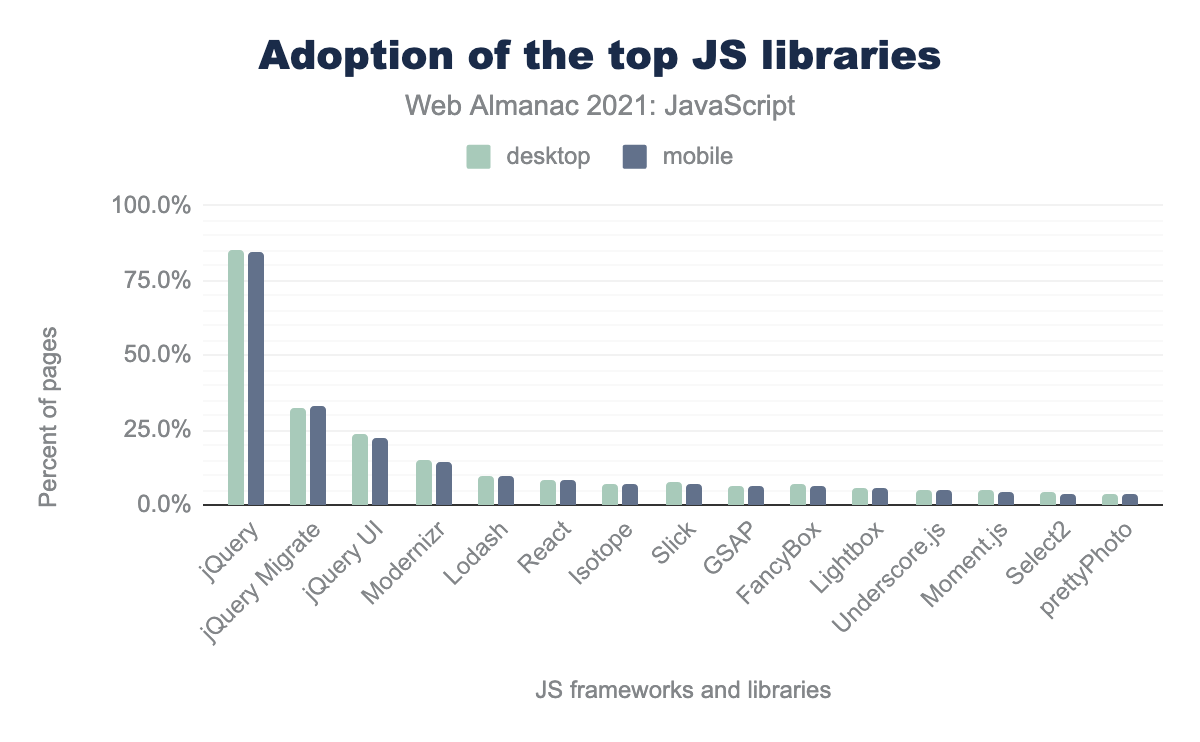
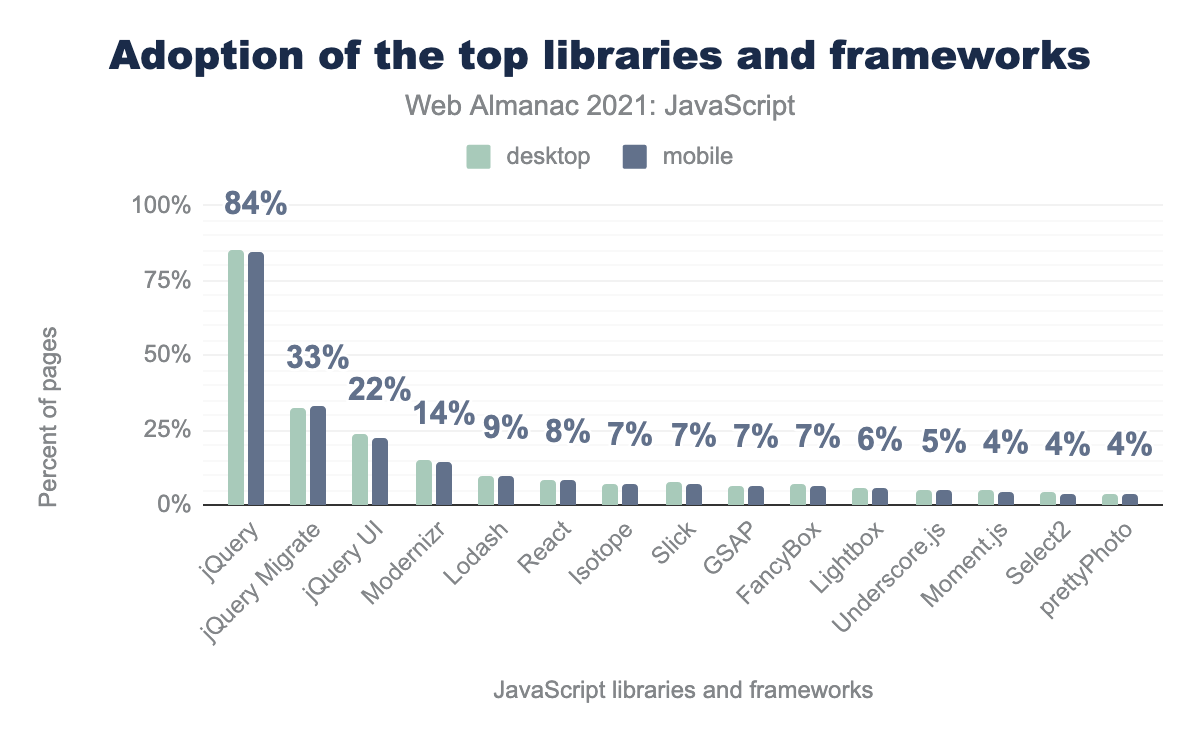
libraries and frameworks

diff --git a/src/content/en/2021/javascript.md b/src/content/en/2021/javascript.md
@@ -128,8 +128,8 @@ Let's look at the data to understand the adoption of these attributes.
     <thead>
       <tr>
         <th>Attribute</th>
-        <th>desktop</th>
-        <th>mobile</th>
+        <th>Desktop</th>
+        <th>Mobile</th>
       </tr>
     </thead>
     <tbody>
@@ -167,8 +167,8 @@ However, loading the JavaScript asynchronously or deferred helps in some ways to
     <thead>
       <tr>
         <th>Attribute</th>
-        <th>desktop</th>
-        <th>mobile</th>
+        <th>Desktop</th>
+        <th>Mobile</th>
       </tr>
     </thead>
     <tbody>
@@ -348,7 +348,7 @@ JavaScript resources can be loaded more efficiently over the network with compre
 
 ### Compression
 
-Compression is the process of reducing the file size of a resource as it gets transferred over the network. This can be an effective way to improve the download times of JavaScript resources, which are highly compressible. For example, the `almanac.js` script loaded on this page is 28 KB, but only 9 KB over the wire thanks to compression.
+Compression is the process of reducing the file size of a resource as it gets transferred over the network. This can be an effective way to improve the download times of JavaScript resources, which are highly compressible. For example, the `almanac.js` script loaded on this page is 28 KB, but only 9 KB over the wire thanks to compression. You can learn more about the ways resources are compressed across the web in the [Compression](./compression) chapter.
 
 {{ figure_markup(
   image="compression-requests.png",
@@ -460,19 +460,19 @@ Only 0.1% of mobile pages use the [`SourceMap`](https://developer.mozilla.org/en
   )
 }}
 
-Interestingly, at 98.0%, nearly all of the `SourceMap` usage on mobile JavaScript resources can be attributed to first-parties. Only 2.0% of scripts with the header on mobile pages are third-party resources.
+98.0% of the `SourceMap` usage on JavaScript resources can be attributed to first-parties. Only 2.0% of scripts with the header on mobile pages are third-party resources.
 
 ## Libraries and frameworks
 
-Over the past years, the usage of JavaScript has increased tremendously with the adoption of many libraries and frameworks. In an effort to fasten and ease building the web, many frameworks have been introduced with each bringing features that make the app more performant. This was so prevalent that the term _framework fatigue_ came into existence.
+The usage of JavaScript seems to have increased tremendously over the years, with the adoption of many new libraries and frameworks all promising their own unique improvements to the developer and user experiences. They have become so prevalent that the term <a hreflang="en" href="https://allenpike.com/2015/javascript-framework-fatigue"><em>framework fatigue</em></a> was coined to describe developers' struggle just to keep up. In this section, we'll look at the popularity of the JavaScript libraries and frameworks in use on the web today.
 
 ### Libraries usage
 
-To understand the usage of libraries and frameworks, HTTP Archive uses [Wappalyzer](./methodology#wappalyzer), which detects many technologies used by the web pages.
+To understand the usage of libraries and frameworks, HTTP Archive uses [Wappalyzer](./methodology#wappalyzer) to detect the technologies used on a page.
 
 {{ figure_markup(
   image="js-libs-frameworks.png",
-  caption="Usage of Javascript libraries and frameworks.",
+  caption="Usage of JavaScript libraries and frameworks.",
   description="Bar chart showing the usage of Javascript libraries and frameworks. jQuery remains on top with 84% of mobile pages using it.",
   chart_url="https://docs.google.com/spreadsheets/d/e/2PACX-1vTpHzC_cMZYj2VLzQ4ODK3uvZkNBXtwdAZriZaBwjLjUM1SGwwmJs9rv8T6OtNdXox29PQ34CasUUwc/pubchart?oid=584103777&format=interactive",
   sheets_gid="1851485826",
@@ -480,21 +480,31 @@ To understand the usage of libraries and frameworks, HTTP Archive uses [Wappalyz
   )
 }}
 
-jQuery remains on top with 84% of mobile pages containing jQuery, however React usage has jumped from 4% to 8% since last year, which is a significant increase. Also worth noticing is the usage of Isotope (uses jQuery) to 7% leading to RequireJS falling out of the picture with 2% usage.
+jQuery remains the most popular library, used by a staggering 84% of mobile pages. React usage has jumped from 4% to 8% since last year, which is a significant increase. React's increase may be partially due to recent <a hreflang="en" href="https://github.com/AliasIO/wappalyzer/issues/2450">detection improvements</a> to Wappalyzer, and may not necessarily reflect the actual change in adoption. It's also worth noting that Isotope, which uses jQuery, is found on 7% of pages, leading to RequireJS falling out of the top spots on just 2% of pages.
 
-One might wonder why jQuery is so dominant and hasn't disappeared over time. There are two main reasons for this. First, as [highlighted over the previous years](../2019/javascript#open-source-libraries-and-frameworks), is that most of the <a hreflang="en" href="https://wordpress.org/">WordPress</a> sites use jQuery, which contributes to a major participation of jQuery. Second, even if the wide usage of jQuery is ignored for a moment, several of the other top-used JavaScript libraries still rely on jQuery in some way under the hood.
+You might wonder why jQuery is still so dominant in 2021. There are two main reasons for this. First, as [highlighted over the previous years](../2019/javascript#open-source-libraries-and-frameworks), most <a hreflang="en" href="https://wordpress.org/">WordPress</a> sites use jQuery. Given that WordPress is used on nearly a third of all websites, according to the [CMS](./cms) chapter, this accounts for a huge proportion of jQuery adoption. Second, several of the other top-used JavaScript libraries still rely on jQuery in some way under the hood, contributing to indirect adoption of the library.
+
+
+{{ figure_markup(
+  content="3.5.1",
+  caption="The most popular version of jQuery.",
+  classes="big-number",
+  sheets_gid="1097559251",
+  sql_file="frameworks_libraries_by_version.sql"
+  )
+}}
+
+The most popular version of jQuery is 3.5.1, which is used by 21.3% of mobile pages. The next most popular version of jQuery is 1.12.4, at 14.4% of mobile pages. The leap to version 3.0 can be explained by a <a hreflang="en" href="https://wptavern.com/major-jquery-changes-on-the-way-for-wordpress-5-5-and-beyond">change to WordPress core</a> in 2020, which upgraded the default version of jQuery from 1.12.4 to 3.5.1.
 
 ### Libraries used together
 
-The adoption of JavaScript frameworks doesn't see a substantial change compared to the previous years. With the way the adoption is measured, there is a <a hreflang="en" href="https://github.com/AliasIO/wappalyzer/issues/2450">detection limitation</a> which doesn't let Wappalyzer capture the percentage precisely. Additionally, the detection is only run on home pages which doesn't capture accurately the overall framework adoption.
-
-It would instead be interesting to look at how the popular frameworks and libraries approach the usage of other libraries. This means how many frameworks or libraries actually rely on other libraries in production.
+Now let's look at how the popular frameworks and libraries are used together on the same page.
 
 <figure>
   <table>
     <thead>
       <tr>
-        <th>Frameworks/Libraries</th>
+        <th>Frameworks and libraries</th>
         <th>Desktop</th>
         <th>Mobile</th>
       </tr>
@@ -552,16 +562,18 @@ It would instead be interesting to look at how the popular frameworks and librar
       </tr>
     </tbody>
   </table>
-  <figcaption>{{ figure_link(caption="Javascript frameworks usage with JavaScript libraries.", sheets_gid="1934429143", sql_file="frameworks_libraries_combos.sql") }}</figcaption>
+  <figcaption>{{ figure_link(
+    caption="Top combinations of JavaScript frameworks and libraries used together.",
+    sheets_gid="1934429143",
+    sql_file="frameworks_libraries_combos.sql"
+  ) }}</figcaption>
 </figure>
 
-jQuery tops in usage with libraries and frameworks, which could also be a result of using a third-party library that includes it. This, as a result, leads to more processing time for the code that the framework or library uses with the other included libraries.
-
-22% of known versions of jQuery are found to be version 3.5.1. This is a big jump compared to last year's (1.12.4), which could be attributed to Wordpress which constitutes most of the participation of jQuery.
+The most widely-used combination of JavaScript libraries and frameworks doesn't actually consist of multiple libraries at all! When used by itself, jQuery is found on 17.4% of mobile pages. The next most popular combination is jQuery and jQuery Migrate, which is used on 8.7% of mobile pages. In fact, all of the top 10 library and framework combinations include jQuery.
 
 ### Security vulnerabilities
 
-Using third-party libraries comes with its own benefits and drawbacks. When using third-party libraries, one extra step for developers is to ensure the security that the library brings. Lighthouse runs this security audit for the third-party libraries used using the package name and its version. These packages can then be checked if there is any vulnerability that has been identified related to those. This is done using the <a hreflang="en" href="https://snyk.io/vuln?type=npm">Snyk's open source vulnerability database</a>.
+Using JavaScript libraries can come with its own benefits and drawbacks. When using these libraries, one drawback is that older versions may include security risks like <a hreflang="en" href="https://owasp.org/www-community/attacks/xss/">Cross Site Scripting</a> (XSS). [Lighthouse](./methodology#lighthouse) detects the JavaScript libraries used on a page and fails the audit if their version has any known vulnerabilities in the open-source <a hreflang="en" href="https://snyk.io/vuln?type=npm">Snyk vulnerability database</a>.
 
 {{ figure_markup(
   content="63.9%",
@@ -572,34 +584,40 @@ Using third-party libraries comes with its own benefits and drawbacks. When usin
   )
 }}
 
-As per the analysis, 63.9% of mobile pages use a JS library or framework with some security vulnerability. The number has come down from 83.5% (the previous year) and that is quite an improvement.
-
-We decided to look at what libraries were worked upon and have either the security vulnerability removed, or the library itself is used less.
+63.9% of mobile pages use a JavaScript library or framework with a known security vulnerability. For context, this number has come down from [83.5% since last year](../2020/javascript#fig-30).
 
 <figure>
   <table>
     <thead>
       <tr>
-        <th>Library</th>
-        <th>Percentage</th>
+        <th>Library or framework</th>
+        <th>Percent of pages</th>
       </tr>
     </thead>
     <tbody>
       <tr>
-        <td>Angular</td>
-        <td class="numeric">0.4%</td>
-     </tr>
-        <tr>
-        <td>AngularJS</td>
-        <td class="numeric">1.0%</td>
+        <td>jQuery</td>
+        <td class="numeric">57.6%</td>
       </tr>
       <tr>
         <td>Bootstrap</td>
-        <td class="numeric">12.1%</td>
+        <td class="numeric">12.2%</td>
       </tr>
       <tr>
-        <td>Dojo</td>
-        <td class="numeric">0.5%</td>
+        <td>jQuery UI</td>
+        <td class="numeric">10.5%</td>
+      </tr>
+      <tr>
+        <td>Underscore</td>
+        <td class="numeric">6.4%</td>
+      </tr>
+      <tr>
+        <td>Lo-Dash</td>
+        <td class="numeric">3.1%</td>
+      </tr>
+      <tr>
+        <td>Moment.js</td>
+        <td class="numeric">2.3%</td>
       </tr>
       <tr>
         <td>GreenSock JS</td>
@@ -610,59 +628,54 @@ We decided to look at what libraries were worked upon and have either the securi
         <td class="numeric">1.3%</td>
       </tr>
       <tr>
-        <td>Highcharts</td>
-        <td class="numeric">0.1%</td>
-      </tr>
-      <tr>
-        <td>jQuery</td>
-        <td class="numeric">57.6%</td>
-      </tr>
-      <tr>
-        <td>jQuery Mobile</td>
-        <td class="numeric">0.5%</td>
-        </tr>
-        <tr>
-        <td>jQuery UI</td>
-        <td class="numeric">10.5%</td>
-      </tr>
-      <tr>
-        <td>Knockout</td>
-        <td class="numeric">0.2%</td>
-      </tr>
-      <tr>
-        <td>Lo-Dash</td>
-        <td class="numeric">3.1%</td>
-      </tr>
-      <tr>
-        <td>Moment.js</td>
-        <td class="numeric">2.2%</td>
+        <td>AngularJS</td>
+        <td class="numeric">1.0%</td>
       </tr>
       <tr>
         <td>Mustache</td>
         <td class="numeric">0.7%</td>
       </tr>
       <tr>
-        <td>Underscore</td>
-        <td class="numeric">6.4%</td>
+        <td>jQuery Mobile</td>
+        <td class="numeric">0.5%</td>
       </tr>
       <tr>
+        <td>Dojo</td>
+        <td class="numeric">0.5%</td>
+      </tr>
+      <tr>
+        <td>Angular</td>
+        <td class="numeric">0.4%</td>
+      </tr>
         <td>Vue</td>
         <td class="numeric">0.2%</td>
       </tr>
       <tr>
-        <td>Vue (Fast path)</td>
+        <td>Knockout</td>
         <td class="numeric">0.2%</td>
       </tr>
       <tr>
+        <td>Highcharts</td>
+        <td class="numeric">0.1%</td>
+      </tr>
+      <tr>
+        <td>Next.js</td>
+        <td class="numeric">0.0%</td>
+      </tr>
+      <tr>
         <td>React</td>
-        <td class="numeric">0%</td>
+        <td class="numeric">0.0%</td>
       </tr>
     </tbody>
   </table>
-  <figcaption>{{ figure_link(caption="List of security vulnerable libraries with their vulnerability percentage.", sheets_gid="551476210", sql_file="lighthouse_vulnerable_libraries.sql") }}</figcaption>
+  <figcaption>{{ figure_link(
+    caption="The percent of mobile pages found to contain a vulnerable version of a JavaScript library or framework.",
+    sheets_gid="551476210",
+    sql_file="lighthouse_vulnerable_libraries.sql"
+  ) }}</figcaption>
 </figure>
 
-The results show that jQuery is the dominant factor in the decrease of vulnerability with at least 23.3% of improvement here and some improvement in jQueryUI too. However, there is little to no difference in other libraries' security vulnerabilities.
+When we segment the percent of mobile pages by library and framework, we can see that jQuery is largely responsible for the decrease vulnerabilities. This year JavaScript vulnerabilities were found on 57.6% of pages with jQuery, compared to [80.9% last year](../2020/javascript#fig-31). As [predicted](../2020/javascript#fig-31) by [Tim Kadlec](../2020/contributors#tkadlec) in the 2020 edition of this chapter, <em>"if we can get folks to migrate away from those outdated, vulnerable versions of jQuery, we would see the number of sites with known vulnerabilities plummet"</em>. And that's exactly what happened; WordPress migrated from jQuery version 1.12.4 to the more secure version 3.5.1, contributing to a 20 point drop in the percent of pages with known JavaScript vulnerabilities.
 
 ## How do we use JavaScript?
 
